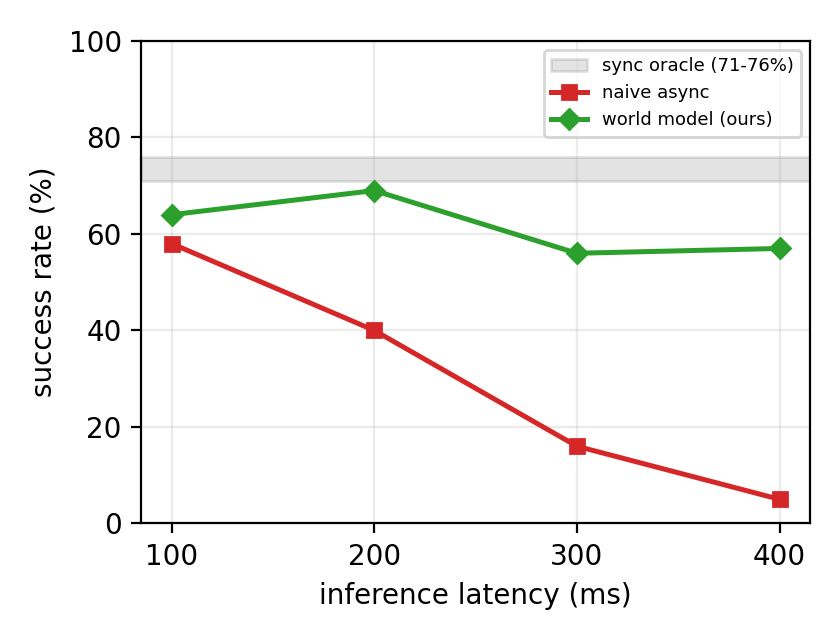
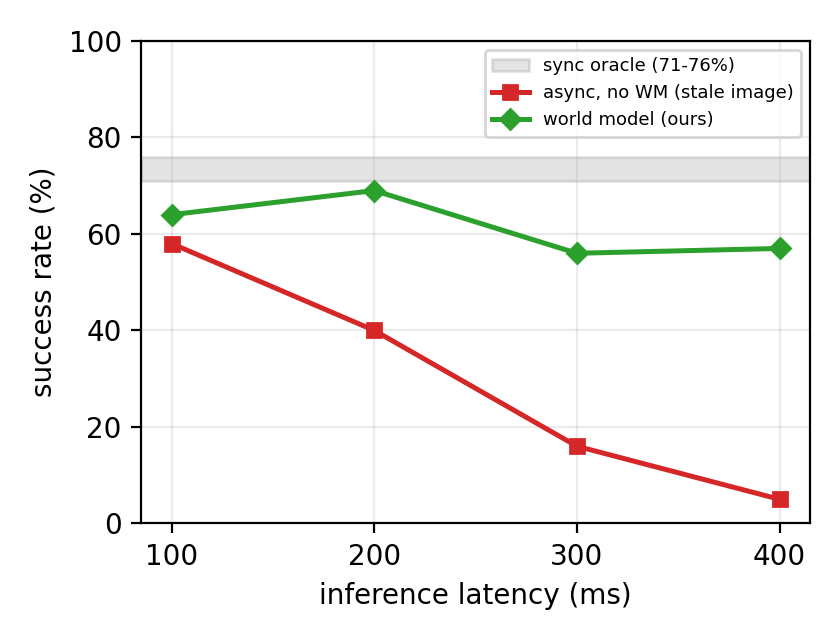
update figure

Changed region(s): [[0.5571, 0.0625, 0.9595, 0.2188]]

diff --git a/index.html b/index.html
@@ -327,7 +327,7 @@
 
         <h2 id="shifting-the-prediction-interval">Shifting the Prediction Interval</h2>
 
-        <p>The cleanest way to see what DreamActVLA does is in terms of intervals. Under inference delay $\delta$, a chunk is <em>planned</em> for the prediction interval $[t, t+K)$ but <em>executed</em> over the shifted interval $[t+\delta, t+\delta+K)$ — every action lands $\delta$ steps late, applied to a world that has moved on. That misalignment is naive async, and it is what collapses in our results below.</p>
+        <p>The cleanest way to see what DreamActVLA does is in terms of intervals. Under inference delay $\delta$, a chunk is <em>planned</em> for the prediction interval $[t, t+K)$ but <em>executed</em> over the shifted interval $[t+\delta, t+\delta+K)$ — every action lands $\delta$ steps late, applied to a world that has moved on. That misalignment is what we call <strong>async without WM</strong>, and it is what collapses in our results below.</p>
 
         <blockquote>
           <p><strong>Our fix: shift the prediction interval itself.</strong> By synthesizing the future observation $\hat{o}_{t+\delta}$ before querying the policy, the chunk is planned for $[t+\delta, t+\delta+K)$ — exactly the interval it will execute over. Perfect alignment, all $K$ actions intact, and the policy itself never changes. This is VLASH's insight — condition on the execution-time state — completed: VLASH rolls forward only the proprioceptive state and must fine-tune the policy to tolerate the resulting state-image mismatch; we roll forward the image too, so a <em>frozen</em> policy accepts the input as-is.</p>
@@ -523,18 +523,18 @@
 
         <h2 id="dynamic-tasks-results">Dynamic Tasks</h2>
 
-        <p>These experiments use the π<sub>0.5</sub>-LIBERO checkpoint (10-action chunks, 20 Hz control) with our learned latent world model, against a zero-latency <strong>oracle</strong> and <strong>naive async</strong> (the full chunk executes $\delta$ steps late — the standard asynchronous deployment, e.g. SmolVLA's). Each cell is 100 episodes, so treat differences under ~5 points as noise.</p>
+        <p>These experiments use the π<sub>0.5</sub>-LIBERO checkpoint (10-action chunks, 20 Hz control) with our learned latent world model, against a zero-latency <strong>oracle</strong> and <strong>async without WM</strong> (proprioceptive state is current — the roll-forward is free — but the images are $\delta$ steps stale and the full chunk executes late). Each cell is 100 episodes, so treat differences under ~5 points as noise.</p>
 
         <h3 id="drift-sweep">How fast can the world move?</h3>
 
         <div class="figure">
-          <img src="assets/img/fig2_drift_sweep_blog.png" alt="Success rate vs object drift rate for oracle, naive async, and world model on libero_object at delay 4">
+          <img src="assets/img/fig2_drift_sweep_blog.png" alt="Success rate vs object drift rate for oracle, async without WM, and world model on libero_object at delay 4">
           <p class="caption">Success rate vs. drift rate (LIBERO-Object, $\delta = 4$ ≈ 200 ms — which happens to be this policy's <em>measured</em> inference latency on our hardware). Top axis: object speed in cm/s.</p>
         </div>
 
         <table class="comparison-table">
           <thead>
-            <tr><th>Drift (mm/step)</th><th>Oracle</th><th>Naive async</th><th>DreamActVLA (WM)</th></tr>
+            <tr><th>Drift (mm/step)</th><th>Oracle</th><th>Async (no WM)</th><th>DreamActVLA (WM)</th></tr>
           </thead>
           <tbody>
             <tr><td>0 (static)</td><td>90</td><td>67</td><td>85</td></tr>
@@ -544,7 +544,7 @@
           </tbody>
         </table>
 
-        <p>Two readings. First, scene motion is expensive for <em>everyone</em> — even the zero-latency oracle falls from 90% to 46%, because objects keep moving during open-loop chunk execution no matter how fresh the observation was. Second, the world model recovers most of the asynchronous gap at mild-to-moderate drift: at 0.4 mm/step it sits at 69% against the oracle's 71%, with naive async at 40% — asynchronous execution at essentially synchronous accuracy, with a frozen policy.</p>
+        <p>Two readings. First, scene motion is expensive for <em>everyone</em> — even the zero-latency oracle falls from 90% to 46%, because objects keep moving during open-loop chunk execution no matter how fresh the observation was. Second, the world model recovers most of the asynchronous gap at mild-to-moderate drift: at 0.4 mm/step it sits at 69% against the oracle's 71%, with the no-WM condition at 40% — asynchronous execution at essentially synchronous accuracy, with a frozen policy.</p>
 
         <blockquote>
           <p><strong>An honest limitation.</strong> At the most aggressive drift (1.0 mm/step) the world model's gains shrink (22%). The reason is structural: our predictor is conditioned on a <em>single</em> stale frame plus the robot's actions — and one frame carries no velocity information, so the model renders drifting objects where the stale frame had them. It corrects the robot's self-motion exactly, but independent scene motion is invisible to any single-frame predictor. The fix is equally structural — condition on two frames so velocity is observable — and is the clear next step (see Limitations).</p>
@@ -553,7 +553,7 @@
         <h3 id="latency-sweep">How much latency can it absorb?</h3>
 
         <div class="figure">
-          <img src="assets/img/fig3_latency_sweep_blog.png" alt="Success rate vs inference latency, 100 to 400 ms, showing naive async collapsing while the world model sustains performance">
+          <img src="assets/img/fig3_latency_sweep_blog.png" alt="Success rate vs inference latency, 100 to 400 ms, showing async without WM collapsing while the world model sustains performance">
           <p class="caption">Success rate vs. inference latency (LIBERO-Object, 0.4 mm/step drift). Shaded band: zero-latency oracle (71–76%).</p>
         </div>
 
@@ -562,12 +562,12 @@
             <tr><th>Latency</th><th>100 ms</th><th>200 ms</th><th>300 ms</th><th>400 ms</th></tr>
           </thead>
           <tbody>
-            <tr><td>Naive async</td><td>58</td><td>40</td><td>16</td><td><strong>5</strong></td></tr>
+            <tr><td>Async (no WM)</td><td>58</td><td>40</td><td>16</td><td><strong>5</strong></td></tr>
             <tr><td>DreamActVLA (WM)</td><td>64</td><td>69</td><td>56</td><td><strong>57</strong></td></tr>
           </tbody>
         </table>
 
-        <p>Naive async collapses monotonically as latency grows (58% → 5%); the world model holds 56–69% across the entire 100–400 ms range — and 320+ ms is the <em>measured</em> latency of inference-optimized 7B VLAs, so the right end of this axis is not exotic. The dips at 100 and 300 ms are an artifact worth owning: our predictor was trained with a fixed 4-step horizon, and those delays force zero-padded action windows; its best points sit exactly at the horizons it serves natively, so this curve is a lower bound, improvable with horizon-matched training.</p>
+        <p>Async without WM collapses monotonically as latency grows (58% → 5%); the world model holds 56–69% across the entire 100–400 ms range — and 320+ ms is the <em>measured</em> latency of inference-optimized 7B VLAs, so the right end of this axis is not exotic. The dips at 100 and 300 ms are an artifact worth owning: our predictor was trained with a fixed 4-step horizon, and those delays force zero-padded action windows; its best points sit exactly at the horizons it serves natively, so this curve is a lower bound, improvable with horizon-matched training.</p>
 
         <p><strong>What does the world model cost?</strong> Measured on our hardware: policy chunk inference $T_\pi = 226$ ms (≈ 4.5 control steps — our 200 ms condition is literally this policy's real latency); the world model adds $T_{wm} = 50$ ms per chunk, in series — one control step of extra reaction latency, about a fifth of one policy inference, and chaining predictions for longer delays is nearly free (51.7 ms for two hops). The policy still runs once per chunk, and all $K$ actions are used.</p>
 